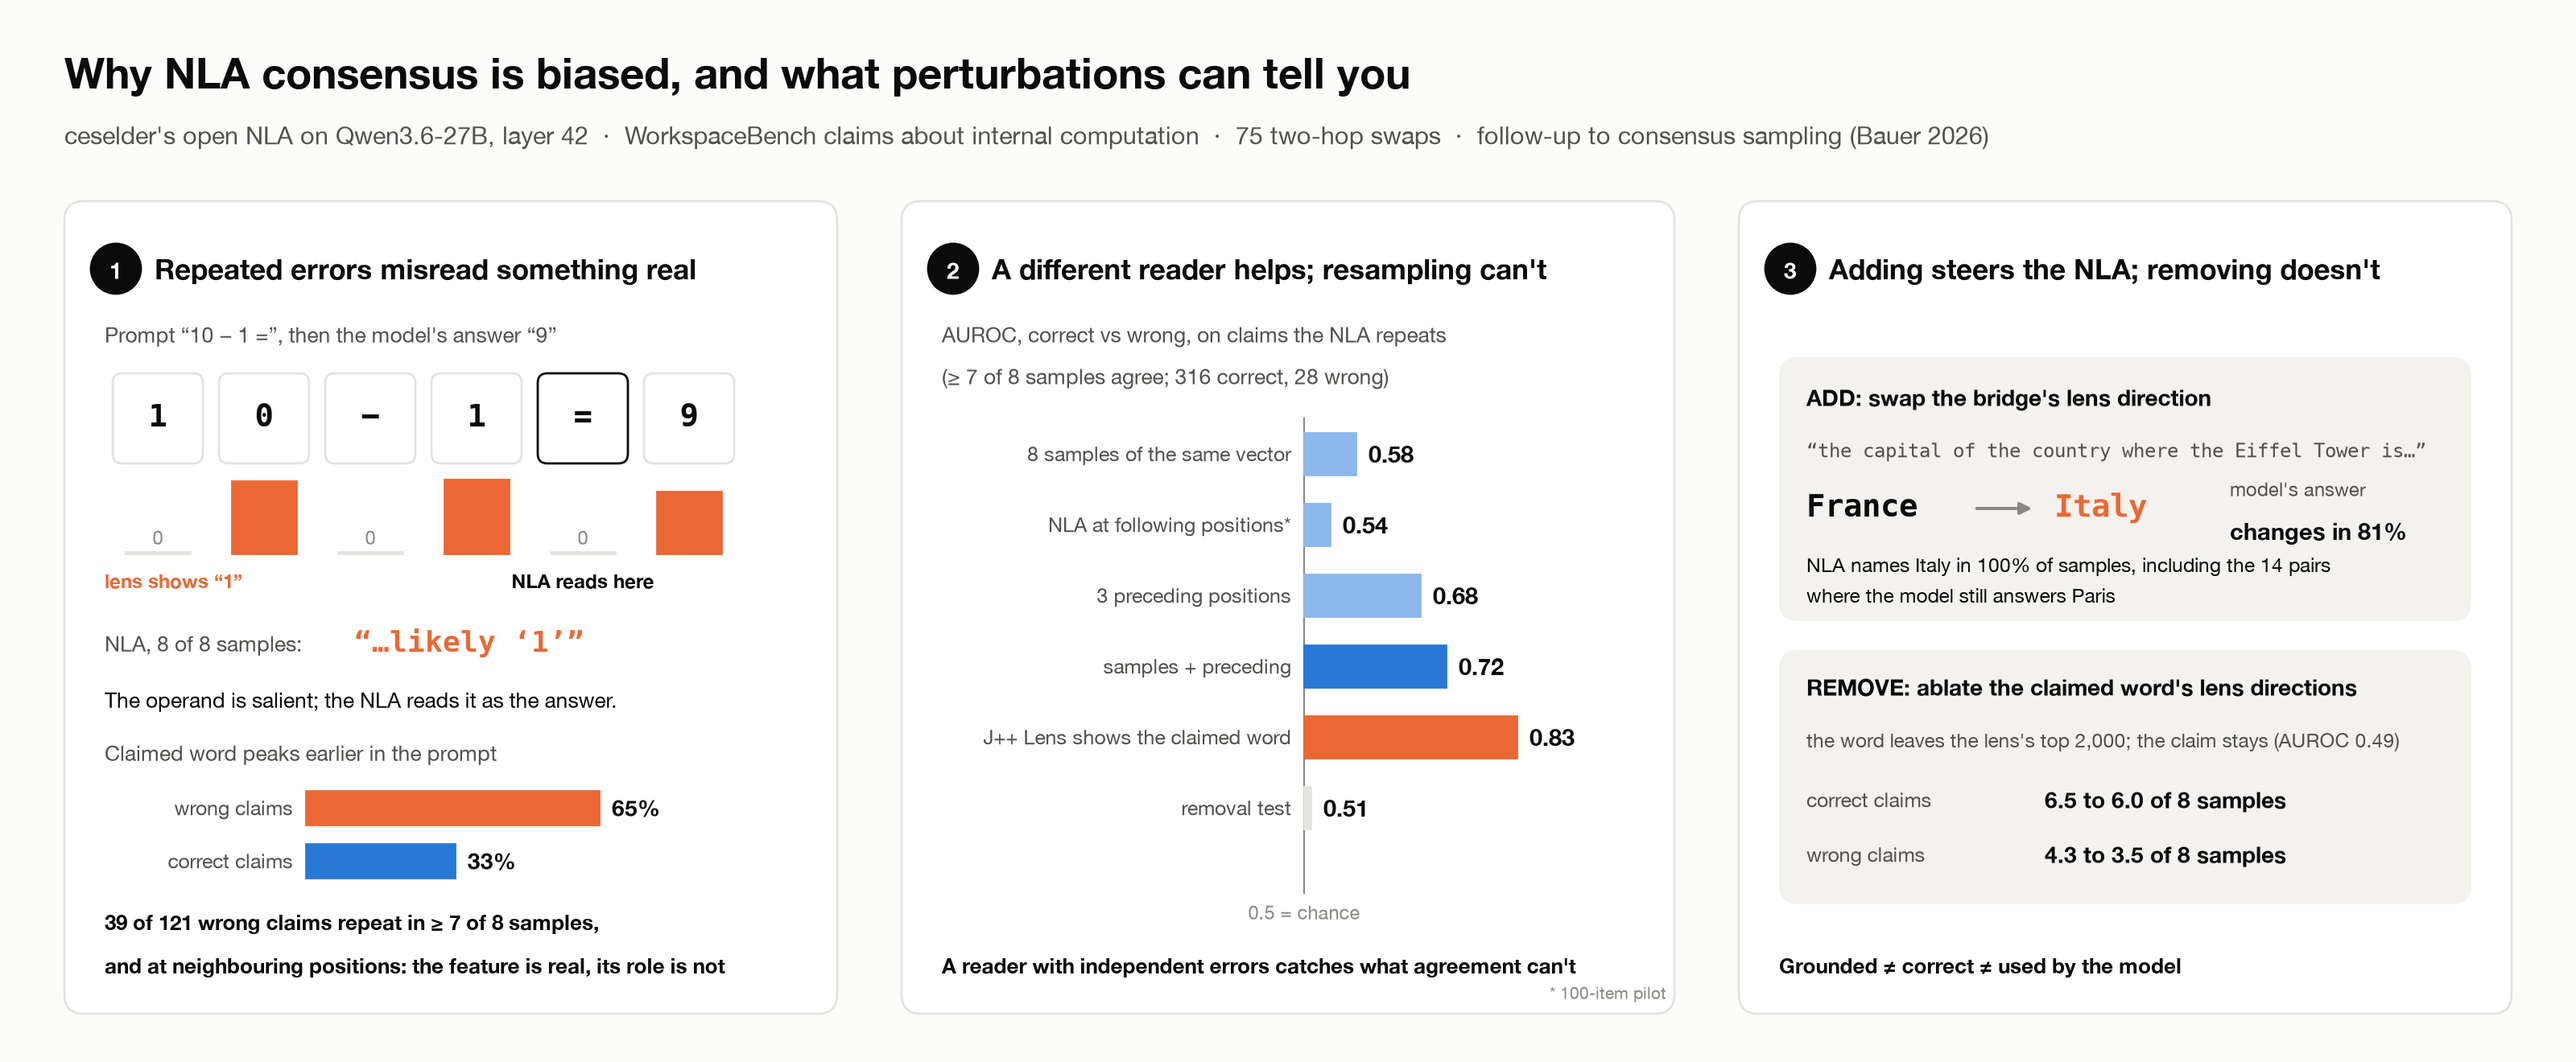
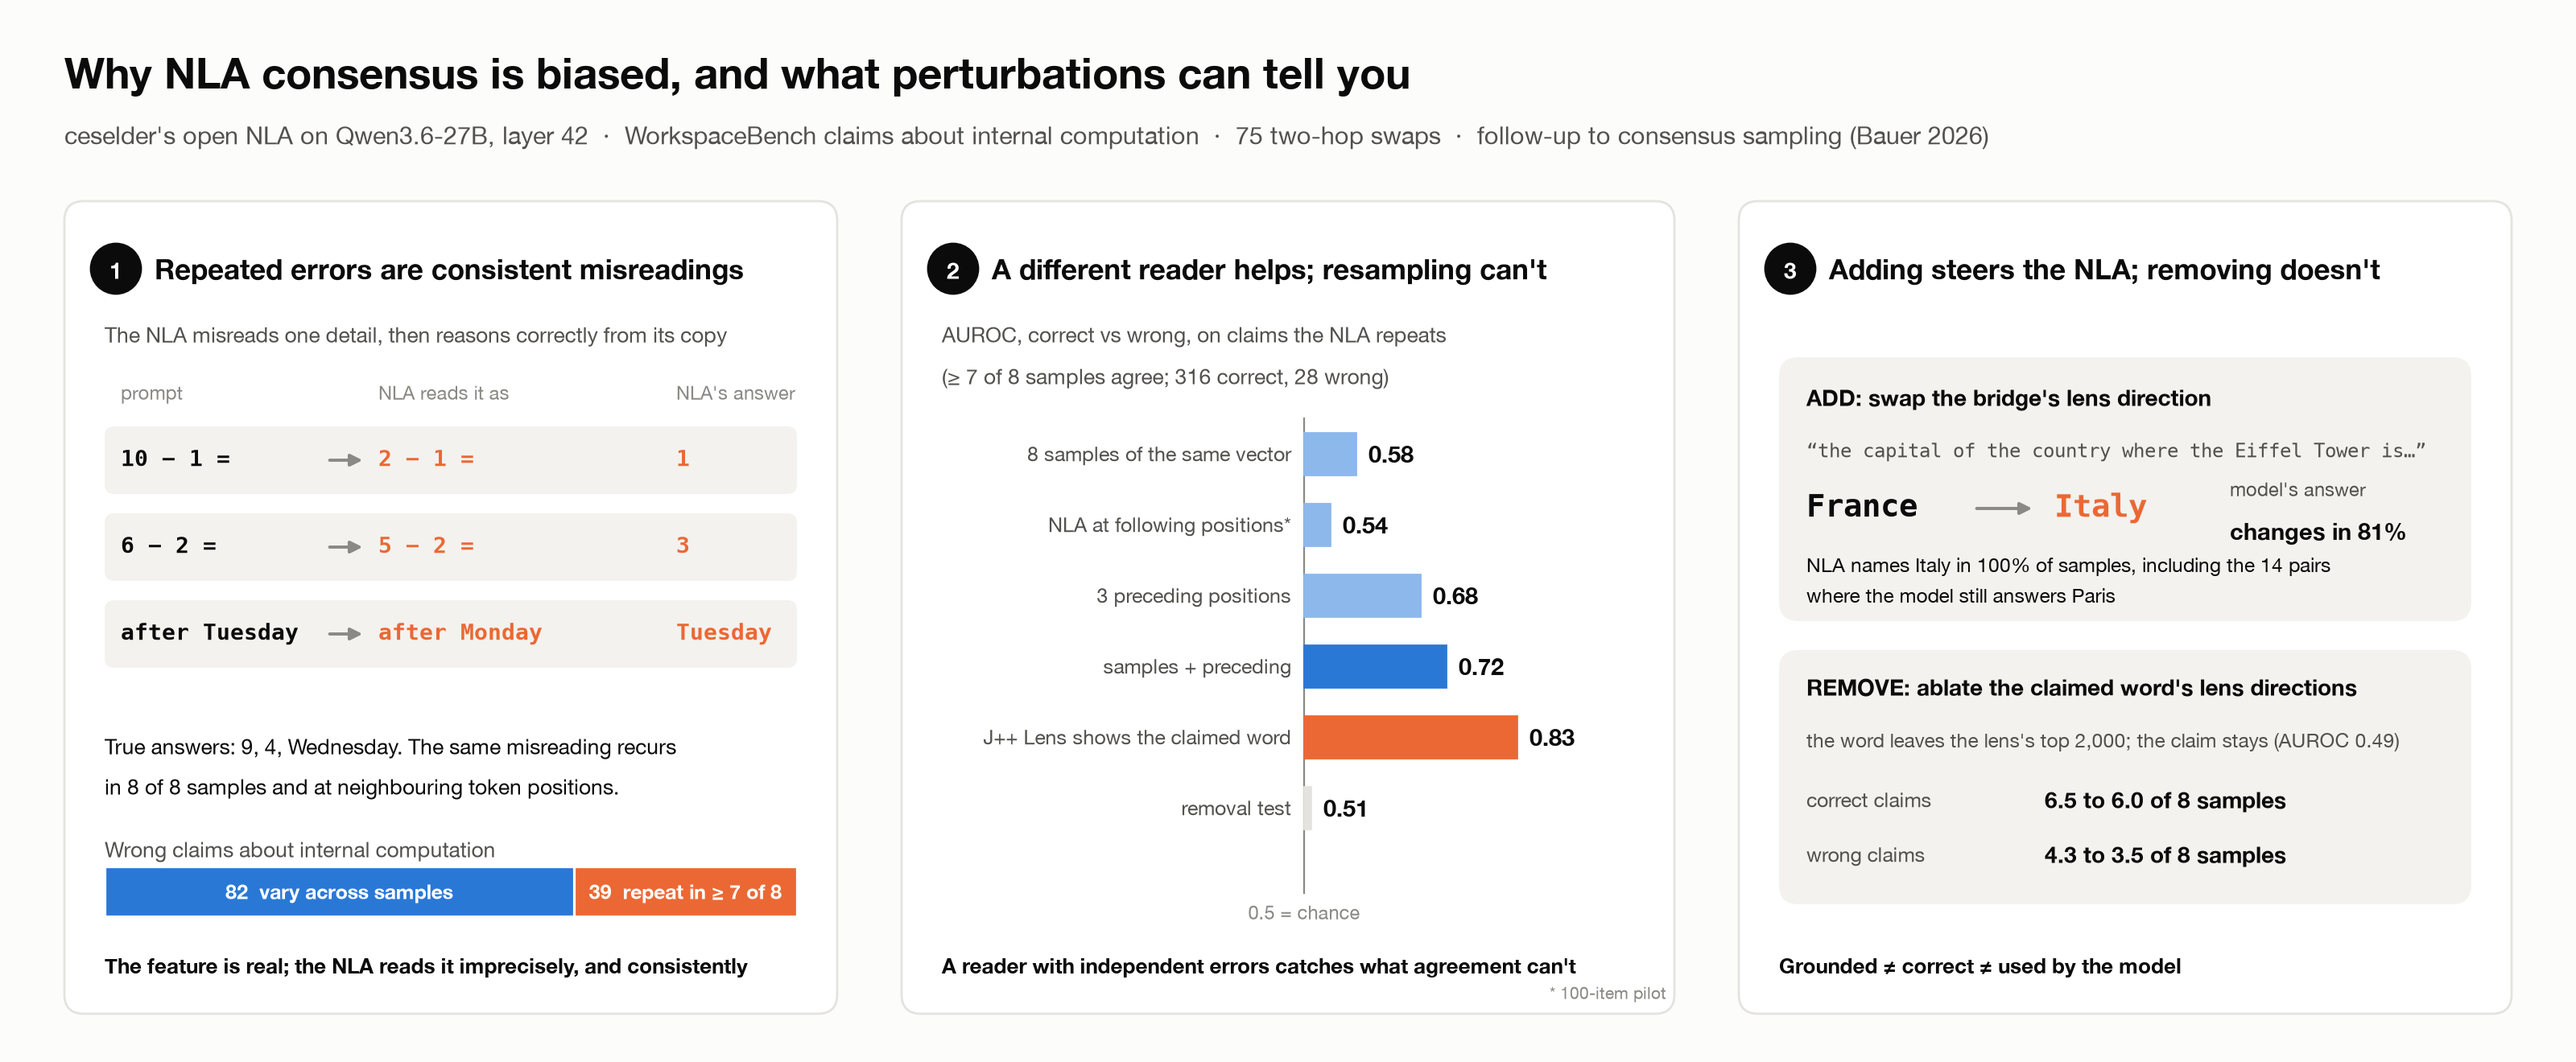
Fix follow-up abstract: repeated errors are consistent misreadings

diff --git a/scripts/abstract_jan.py b/scripts/abstract_jan.py
@@ -46,7 +46,7 @@ def arrow(x0, y0, x1, y1):
 text(4, 61.5, "Why NLA consensus is biased, and what perturbations can tell you", 19, weight="bold")
 text(4, 57.6, "ceselder's open NLA on Qwen3.6-27B, layer 42  ·  WorkspaceBench claims about internal computation  ·  "
      "75 two-hop swaps  ·  follow-up to consensus sampling (Bauer 2026)", 11, INK2)
-for x, n, title in [(4, "1", "Repeated errors misread something real"),
+for x, n, title in [(4, "1", "Repeated errors are consistent misreadings"),
                     (56, "2", "A different reader helps; resampling can't"),
                     (108, "3", "Adding steers the NLA; removing doesn't")]:
     card(x, 3, 48, 50.5, fc="#ffffff", ec=GRID)
@@ -56,31 +56,30 @@ for x, n, title in [(4, "1", "Repeated errors misread something real"),
 
 # ---- panel 1: the "10 - 1 =" example with the lens profile of "1"
 x0 = 4
-text(x0 + 2.5, 45.2, "Prompt “10 − 1 =”, then the model's answer “9”", 9.5, INK2)
-toks = ["1", "0", "−", "1", "=", "9"]
-strength = [0.0, 0.98, 0.0, 1.0, 0.0, 0.84]  # J++ score of the word "1" at each position, layer 42
-for k, (t, s_) in enumerate(zip(toks, strength)):
-    xx = x0 + 3 + k * 6.6
-    card(xx, 37.2, 5.6, 5.6, fc="#ffffff", ec=INK if k == 4 else GRID, r=0.6)
-    text(xx + 2.8, 40.0, t, 14, INK, "bold", ha="center", family=MONO)
-    rect(xx + 0.8, 31.6, 4.0, 0.12, GRID)
-    if s_ > 0:
-        rect(xx + 0.8, 31.6, 4.0, 4.6 * s_, ORANGE)
-    else:
-        text(xx + 2.8, 32.6, "0", 8.5, INK3, ha="center")
-text(x0 + 3 + 4 * 6.6 + 2.8, 29.9, "NLA reads here", 8.5, INK, "bold", ha="center")
-text(x0 + 2.5, 29.9, "lens shows “1”", 8.5, ORANGE, "bold")
-text(x0 + 2.5, 26.0, "NLA, 8 of 8 samples:", 9.5, INK2)
-text(x0 + 18.0, 26.0, "“…likely ‘1’”", 13, ORANGE, "bold", family=MONO)
-text(x0 + 2.5, 22.5, "The operand is salient; the NLA reads it as the answer.", 9.5, INK)
-text(x0 + 2.5, 19.2, "Claimed word peaks earlier in the prompt", 9.5, INK2)
-for i, (lab, v, c) in enumerate([("wrong claims", 65, ORANGE), ("correct claims", 33, BLUE)]):
-    yy = 15.8 - i * 3.3
-    rect(x0 + 15, yy - 1.05, v * 0.28, 2.1, c)
-    text(x0 + 15 + v * 0.28 + 0.8, yy, f"{v}%", 10, INK, "bold")
-    text(x0 + 14.2, yy, lab, 9, INK2, ha="right")
-text(x0 + 2.5, 8.7, "39 of 121 wrong claims repeat in ≥ 7 of 8 samples,", 9.5, INK, "bold")
-text(x0 + 2.5, 6.0, "and at neighbouring positions: the feature is real, its role is not", 9.5, INK, "bold")
+text(x0 + 2.5, 45.2, "The NLA misreads one detail, then reasons correctly from its copy", 9.5, INK2)
+text(x0 + 3.5, 41.6, "prompt", 8.5, INK3)
+text(x0 + 19.5, 41.6, "NLA reads it as", 8.5, INK3)
+text(x0 + 38.0, 41.6, "NLA's answer", 8.5, INK3)
+ex = [("10 − 1 =", "2 − 1 =", "1", "9"), ("6 − 2 =", "5 − 2 =", "3", "4"),
+      ("after Tuesday", "after Monday", "Tuesday", "Wednesday")]
+for k, (pr, cp, an, tr) in enumerate(ex):
+    yy = 37.4 - k * 5.4
+    card(x0 + 2.5, yy - 2.1, 43, 4.2, fc=CARD, r=0.6)
+    text(x0 + 3.5, yy, pr, 10, INK, "bold", family=MONO)
+    arrow(x0 + 16.2, yy, x0 + 18.8, yy)
+    text(x0 + 19.5, yy, cp, 10, ORANGE, "bold", family=MONO)
+    text(x0 + 38.0, yy, an, 10, ORANGE, "bold", family=MONO)
+text(x0 + 2.5, 19.6, "True answers: 9, 4, Wednesday. The same misreading recurs", 9.5, INK)
+text(x0 + 2.5, 17.1, "in 8 of 8 samples and at neighbouring token positions.", 9.5, INK)
+text(x0 + 2.5, 13.2, "Wrong claims about internal computation", 9.5, INK2)
+segs = [("vary across samples", 82, BLUE), ("repeat in ≥ 7 of 8", 39, ORANGE)]
+xx, W = x0 + 2.5, 43
+for lab_, n_, c_ in segs:
+    w_ = n_ / 121 * W
+    rect(xx + 0.15, 9.2, w_ - 0.3, 2.8, c_)
+    text(xx + w_ / 2, 10.6, f"{n_}  {lab_}", 9, "#ffffff", "bold", ha="center")
+    xx += w_
+text(x0 + 2.5, 6.0, "The feature is real; the NLA reads it imprecisely, and consistently", 9.5, INK, "bold")
 
 # ---- panel 2: AUROC on the repeated errors
 x0 = 56
